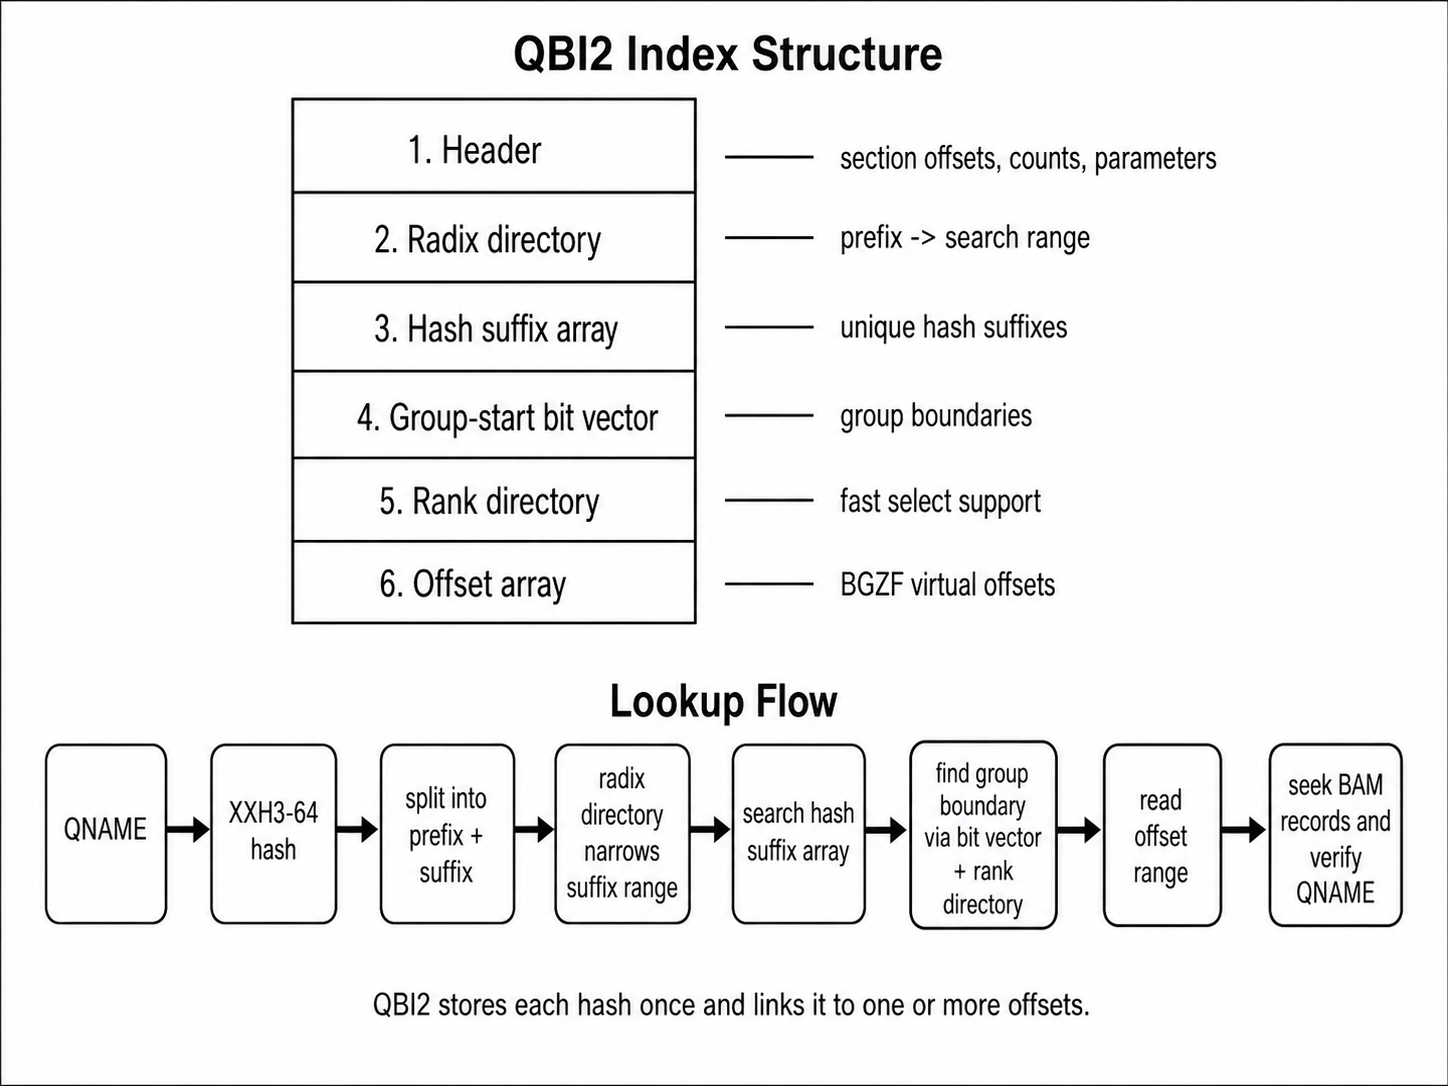
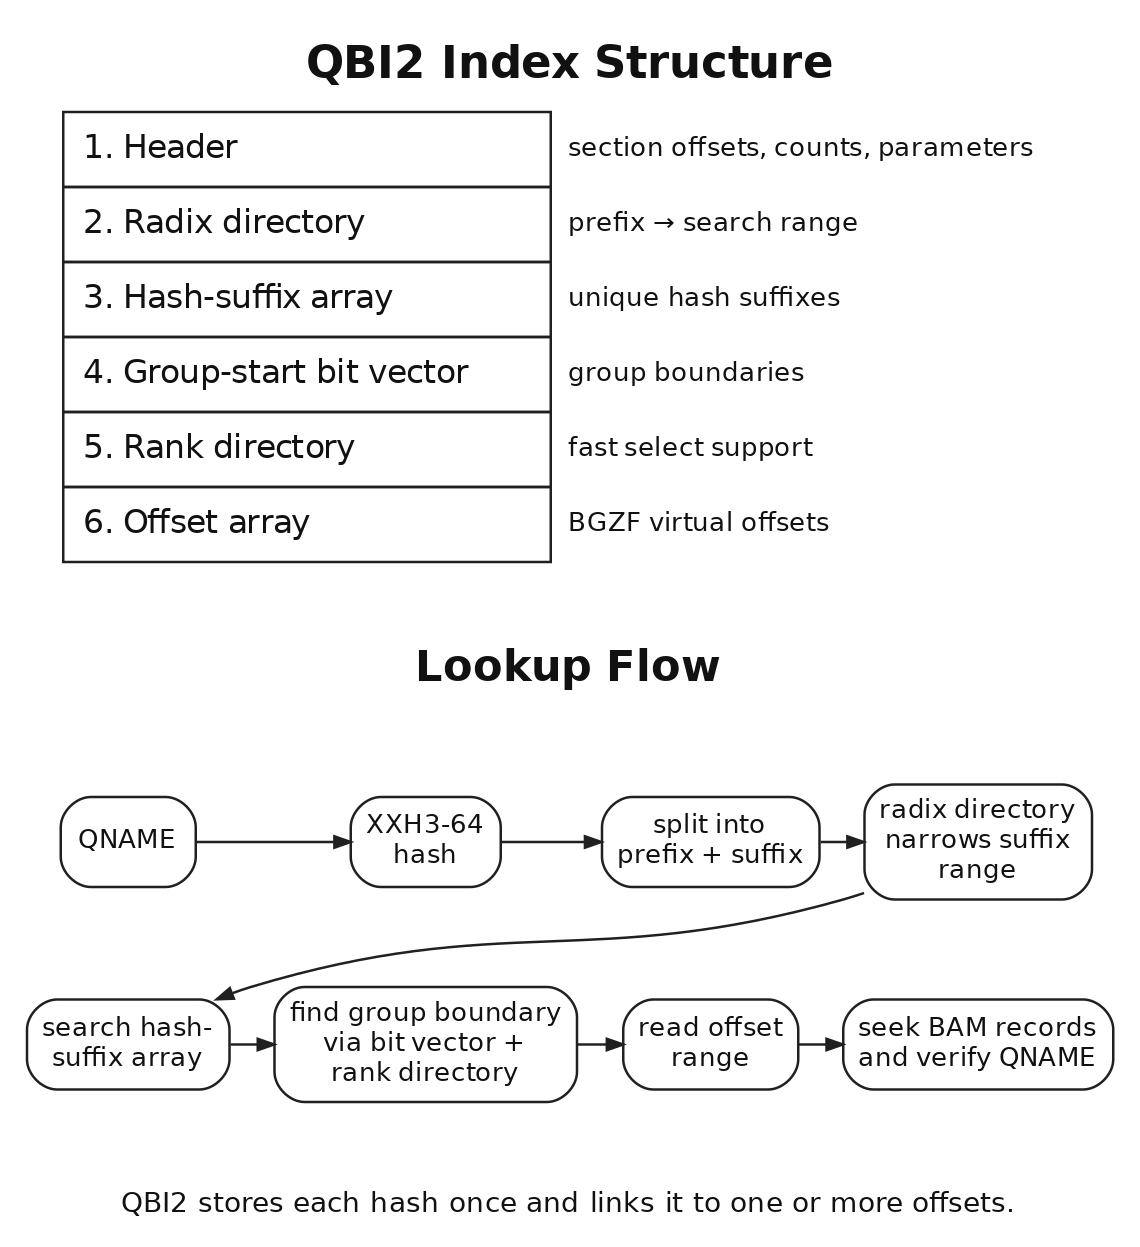
Update Figure 1

diff --git a/paper/README.md b/paper/README.md
@@ -2,7 +2,9 @@
 
 - `paper.md`: manuscript
 - `paper.bib`: references
-- `data/` and `scripts/`: figure data and generator
+- `data/` and `scripts/`: benchmark figure data and generator
+- `figures/qbi-index-structure.dot`: Graphviz source for Figure 1; the Pages
+  workflow renders it to PNG before building the PDF
 - `notes/`: working notes
 
 GitHub Actions builds a neutral preprint PDF with Inara and LaTeX.
